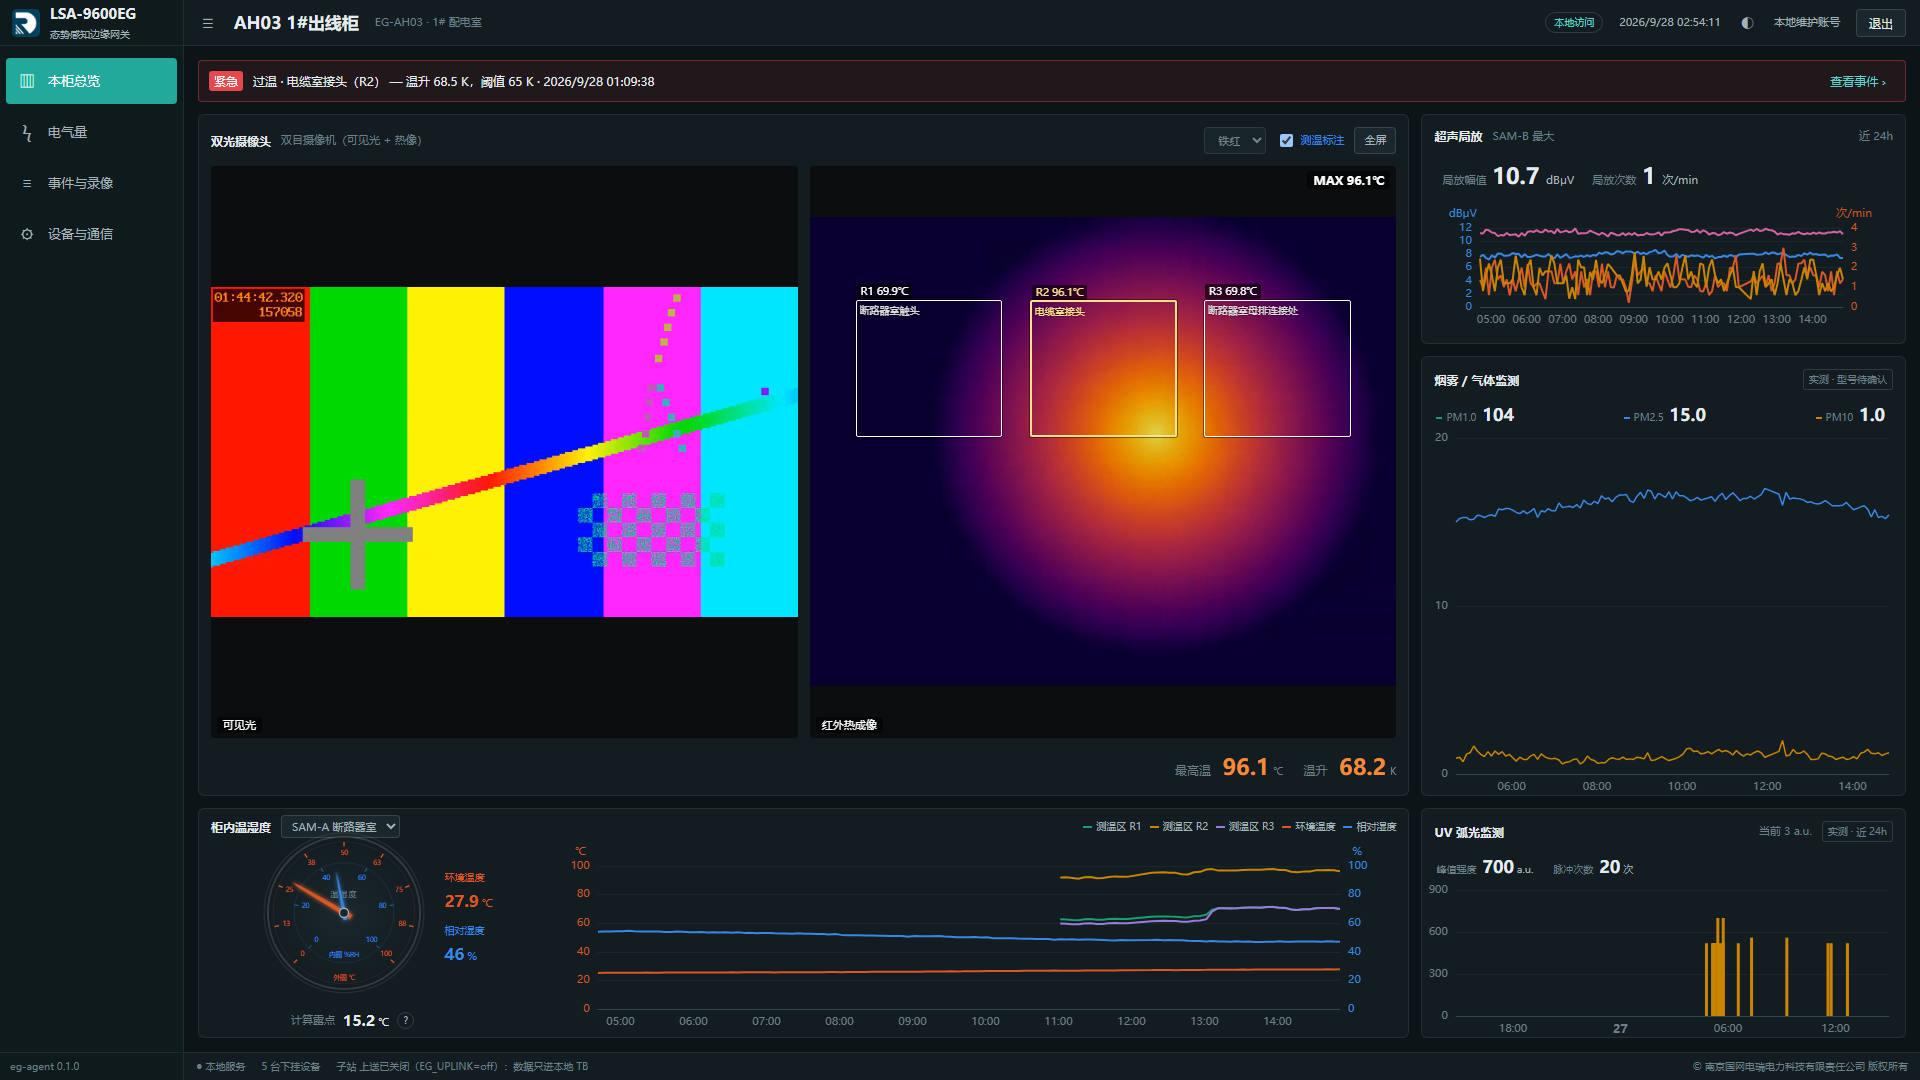
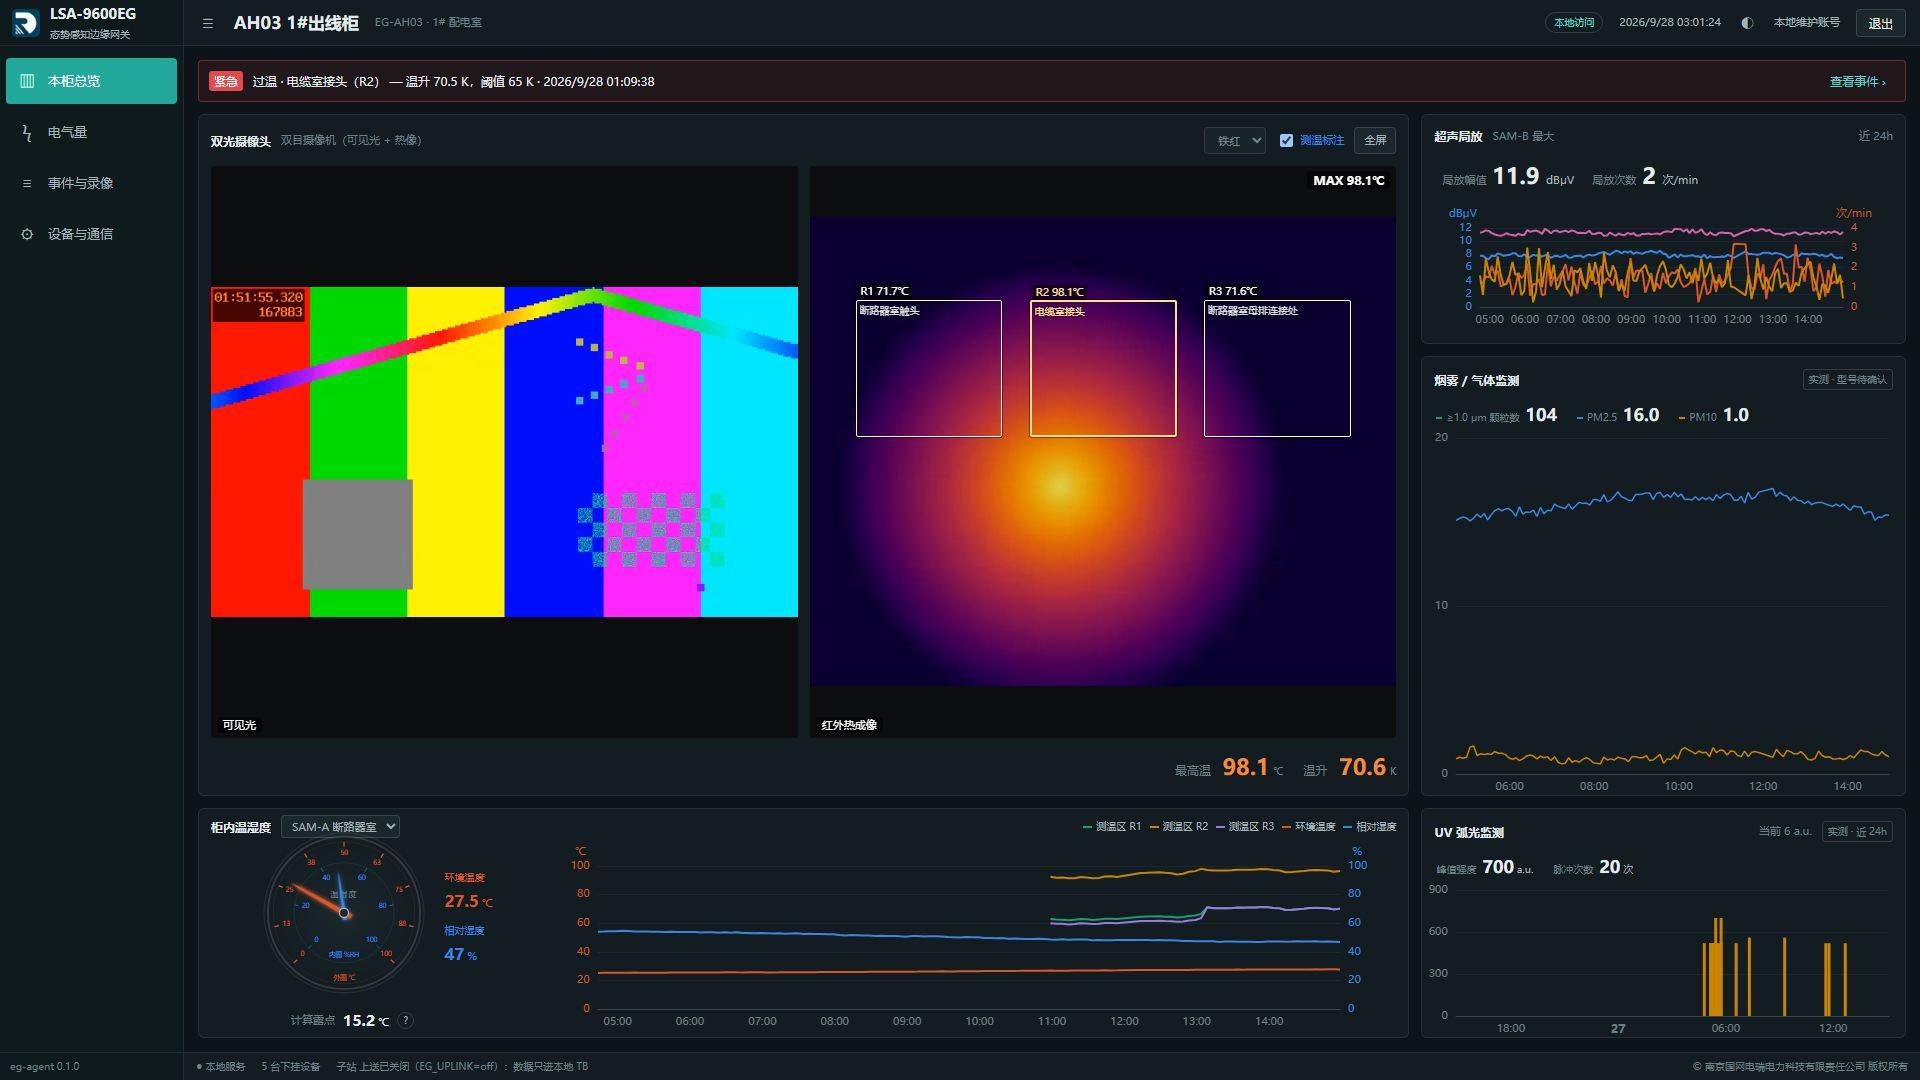
eg-ui-v2：颗粒物第一项照点表定义显示「≥1.0 μm 颗粒数」（个/L），读数行可折行（1280 宽 PM10 不再被挤出）

diff --git a/apps/admin-web/src/components/CabinetMonitor.vue b/apps/admin-web/src/components/CabinetMonitor.vue
@@ -100,9 +100,9 @@ const dischargeScales = computed(() => {
 const pdAxisColors = computed(() => ({ [dischargeUnits.value[0]!]: 'var(--s1)', [dischargeUnits.value[1]!]: 'var(--s2)' }))
 const hasPd = computed(() => sams.value.some(s => has(s, 'us.amp')))
 
-/* ---------- 总览：烟雾 / 气体（点表 pm 设备：PM1.0（点表单位 个/L）、PM2.5、PM10（μg/m³）） ---------- */
+/* ---------- 总览：烟雾 / 气体（照点表：≥1.0 μm 颗粒数 个/L、PM2.5、PM10 μg/m³；传感器选型定了再改） ---------- */
 const PM_KEYS = [
-  { key: 'pm.1.0', name: 'PM1.0', color: 'var(--s3)' },
+  { key: 'pm.1.0', name: '≥1.0 μm 颗粒数', color: 'var(--s3)' },
   { key: 'pm.2.5', name: 'PM2.5', color: 'var(--s1)' },
   { key: 'pm.10', name: 'PM10', color: 'var(--s4)' },
 ]
@@ -338,7 +338,7 @@ async function download(id: string, label: string) {
 .sensor-stack{display:grid;grid-template-rows:auto minmax(0,1fr);gap:12px;min-width:0}.arc-card{display:flex;flex-direction:column}.arc-card>.monitor-card-heading{flex:none}.arc-placeholder{flex:1}
 .cab-monitor{font-size:13px}.pd-card{align-self:start;padding-bottom:12px}button,select{font:inherit;color:var(--text2);background:var(--surface2);border:1px solid var(--line2);border-radius:4px;padding:4px 9px;cursor:pointer}button:hover{color:var(--brand-ink);border-color:var(--brand)}button:focus-visible,select:focus-visible{outline:2px solid var(--brand);outline-offset:2px}.cab-warning{margin-bottom:12px;display:flex;align-items:center;gap:10px;background:rgba(var(--major-rgb),.10);border:1px solid rgba(var(--major-rgb),.35);padding:7px 10px;border-radius:4px;font-size:12px}.warning-tag{background:var(--major);color:#171d20;padding:1px 5px;border-radius:3px}.cab-warning button{margin-left:auto;background:none;border:0;color:var(--brand-ink)}.monitor-grid{display:grid;grid-template-columns:minmax(0,5fr) minmax(300px,2fr);gap:12px}.monitor-card{min-width:0;background:var(--surface);border:1px solid var(--line);border-radius:6px;overflow:hidden}.monitor-card-heading{display:flex;align-items:center;gap:10px;padding:12px;min-height:22px;font-size:12px}.monitor-card-heading label{display:flex;align-items:center;gap:4px;color:var(--s1);font-size:11px}.monitor-card-heading select,.monitor-card-heading button{font-size:11px}.grow{flex:1}.camera-frame{margin:0 12px;height:305px;min-width:0}.camera-frame:fullscreen{height:100vh;margin:0;background:#080b0d;padding:20px;box-sizing:border-box}.camera-summary{display:flex;justify-content:flex-end;align-items:center;gap:20px;padding:12px;color:var(--muted);font-size:12px}.camera-summary b{font-size:22px;color:var(--major);margin-left:8px}.camera-summary small{margin-left:4px}.sensor-values{display:flex;align-items:baseline;gap:18px;margin:2px 20px 14px}.sensor-values>div{display:flex;align-items:baseline;gap:6px;white-space:nowrap}.sensor-values span{color:var(--muted);font-size:11px}.sensor-values b{font-size:22px}.sensor-values small{font-size:11px;font-weight:400;color:var(--text2)}.climate-card>.monitor-card-heading{justify-content:flex-end}.climate-legend{display:flex;justify-content:flex-end;gap:8px;flex-wrap:wrap}.climate-legend button{display:flex;align-items:center;gap:4px;border:0;background:none;padding:0;font-size:10px}.climate-legend .inactive{opacity:.35}.climate-legend i{width:9px;height:2px}.climate-layout{display:grid;grid-template-columns:minmax(220px,28%) minmax(0,1fr);align-items:center;padding:0 6px 10px}.dial-column{min-width:0}.dial-column :deep(.climate-dial){justify-content:center;--dial-size:155px}.dew-reading{display:flex;justify-content:center;align-items:center;gap:8px;margin-top:4px;font-size:11px;color:var(--muted)}.dew-reading b{color:var(--text);font-size:15px}.dew-reading small{font-weight:400;font-size:11px}.dew-reading button{width:17px;height:17px;padding:0;border-radius:50%;background:none;font-size:10px}.pending{font-size:10px;color:var(--muted);border:1px solid var(--line2);border-radius:3px;padding:2px 5px}.monitor-empty{display:flex;min-height:160px;align-items:center;justify-content:center;flex-direction:column;gap:10px;color:var(--muted);font-size:12px;text-align:center;padding:12px}.monitor-empty strong{font-weight:400;color:var(--text2)}.empty-symbol{font-size:36px;opacity:.55}.event-list{padding:0 12px 8px}.event-row{display:flex;align-items:center;gap:10px;border-top:1px solid var(--line);padding:10px 0;font-size:11px}.event-row time{color:var(--muted);font-variant-numeric:tabular-nums}.event-level{white-space:nowrap}.event-detail{flex:1}.event-state{color:var(--muted);white-space:nowrap}.text-link{border:0;background:none;color:var(--brand-ink)}.arc-placeholder{display:flex;gap:12px;align-items:center;padding:26px 18px;color:var(--muted);font-size:12px}.arc-placeholder b{font-size:30px}.electric-grid{display:grid;grid-template-columns:repeat(4,minmax(0,1fr));gap:12px}.electric-row{display:flex;justify-content:space-between;gap:10px;margin:0 14px;padding:16px 0;border-top:1px solid var(--line);color:var(--text2);font-size:12px}.electric-row b{color:var(--text);font-size:17px;font-variant-numeric:tabular-nums}.electric-chart,.recording-card{margin-top:12px}.table-scroll{overflow:auto}.event-table{width:100%;border-collapse:collapse;font-size:12px;text-align:left;white-space:nowrap}.event-table th,.event-table td{padding:15px 14px;border-top:1px solid var(--line)}.event-table th{color:var(--muted);font-weight:400}.event-table td.monitor-empty{display:table-cell}.recording-card .monitor-empty{min-height:230px}
 /* EG：接真实数据后补的几处（不用 color-mix，照顾 Chromium 88） */
-.events-scroll{max-height:min(46vh,480px)}.events-scroll th{position:sticky;top:0;background:var(--surface);z-index:1}
+.smoke-readings{flex-wrap:wrap;justify-content:flex-start;gap:2px 14px}.events-scroll{max-height:min(46vh,480px)}.events-scroll th{position:sticky;top:0;background:var(--surface);z-index:1}
 .muted{color:var(--muted)}.monitor-card-heading>.muted{font-size:11px}.src-tag{font-size:10px;color:var(--muted);border:1px solid var(--line2);border-radius:3px;padding:1px 5px}.sam-sel{font-size:11px;padding:2px 6px}
 .cab-warning.sev-CRITICAL{background:rgba(var(--crit-rgb),.10);border-color:rgba(var(--crit-rgb),.4)}.cab-warning.sev-CRITICAL .warning-tag{background:var(--crit);color:#fff}
 .evidence-play{display:grid;grid-template-columns:repeat(2,minmax(0,1fr));gap:12px;padding:0 12px 12px}.ev-item{min-width:0;display:flex;flex-direction:column;gap:6px}.ev-item.wave{grid-column:1/-1}.ev-cap{display:flex;align-items:center;font-size:11px;color:var(--text2)}.ev-item video,.ev-item img{width:100%;aspect-ratio:16/10;object-fit:contain;background:#0b0d0e;border-radius:4px}.ev-note{padding:14px;border:1px dashed var(--line2);border-radius:4px;color:var(--muted);font-size:11px}

diff --git a/docs/单柜主界面设计与预览.md b/docs/单柜主界面设计与预览.md
@@ -13,7 +13,7 @@
 - 总览：顶部柜体信息、事件摘要（级别最高、最新的一条活动告警）、并排双光实况、R1/R2/R3 测温区（按摄像机坐标画框，最热的标黄）、最高温与温升、柜内温湿度指针表与趋势（多隔室时可选 SAM）、露点、局放幅值与次数的双轴图（各隔室取大）；详细事件列表由侧栏进入。
 - 电气量：相电压、三相电流、功率、功率因数、频率、电能、负荷率及三相电流趋势（5 min 平均）。点表是相电压 Ua/Ub/Uc，原型里的线电压改为相电压。
 - 事件与录像：本地事件（EG 本地 TB 告警）按类型筛选；「关联录像」打开该事件的证据组：双光视频并排回放、双光抓图、录波（JSON，下载查看）。
-- 烟雾与弧光：颗粒物按点表 `pm` 设备的 key 与单位接入（≥1.0 μm 颗粒数 个/L、PM2.5、PM10 μg/m³），传感器型号仍待确认；弧光为各 SAM 的 `uv.pulse` 脉冲（峰值 a.u.、持续 ms）与当前 `uv.int`。点表里没有的通道显示「待确认」，不据此生成告警。
+- 烟雾与弧光：颗粒物按点表 `pm` 设备的定义接入（≥1.0 μm 颗粒数 个/L、PM2.5、PM10 μg/m³），传感器型号仍待确认；弧光为各 SAM 的 `uv.pulse` 脉冲（峰值 a.u.、持续 ms）与当前 `uv.int`。点表里没有的通道显示「待确认」，不据此生成告警。
 - 布局：左侧为双光画面和温湿度，右侧从上到下为局放、烟雾 / 气体、UV 弧光；常用桌面窗口整页显示，小屏允许滚动。页脚显示公司版权。
 - 健康评分：不在网关独立计算或展示模拟评分。
 
